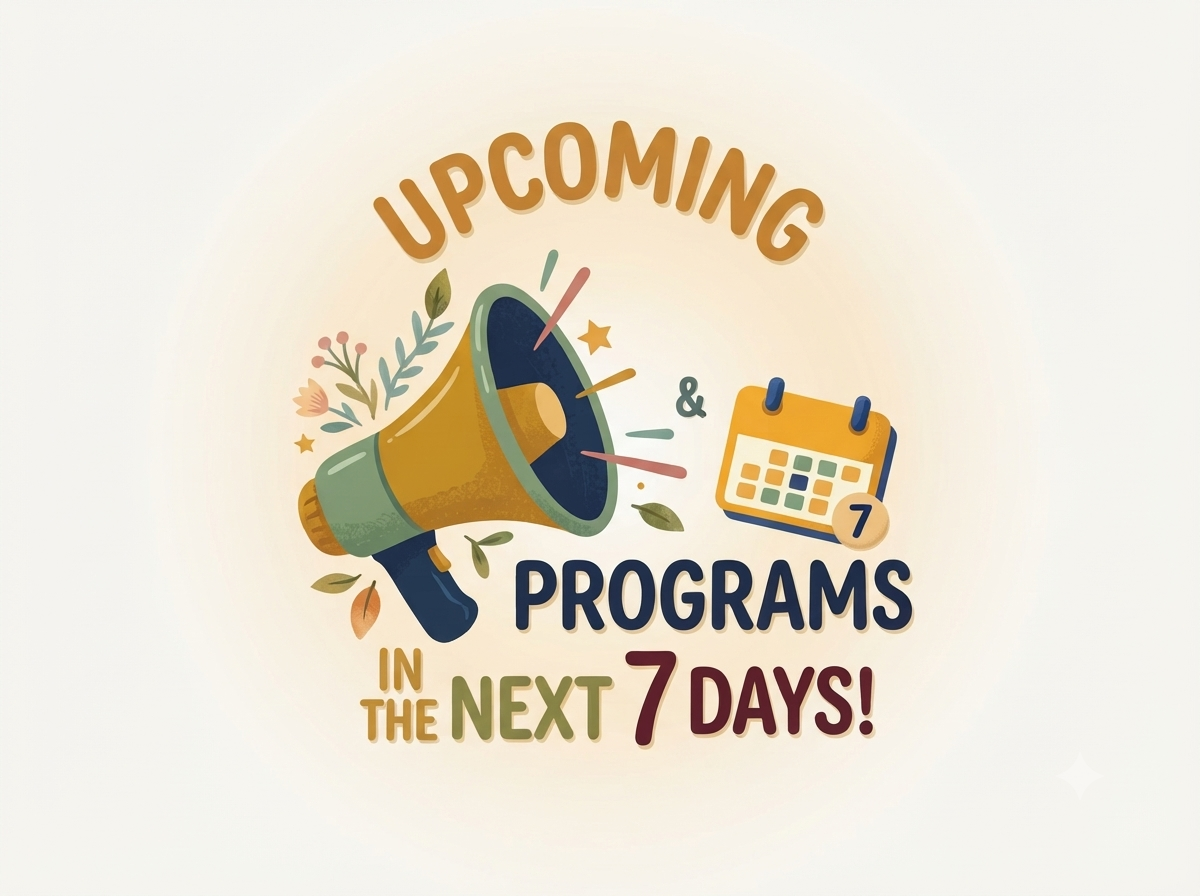
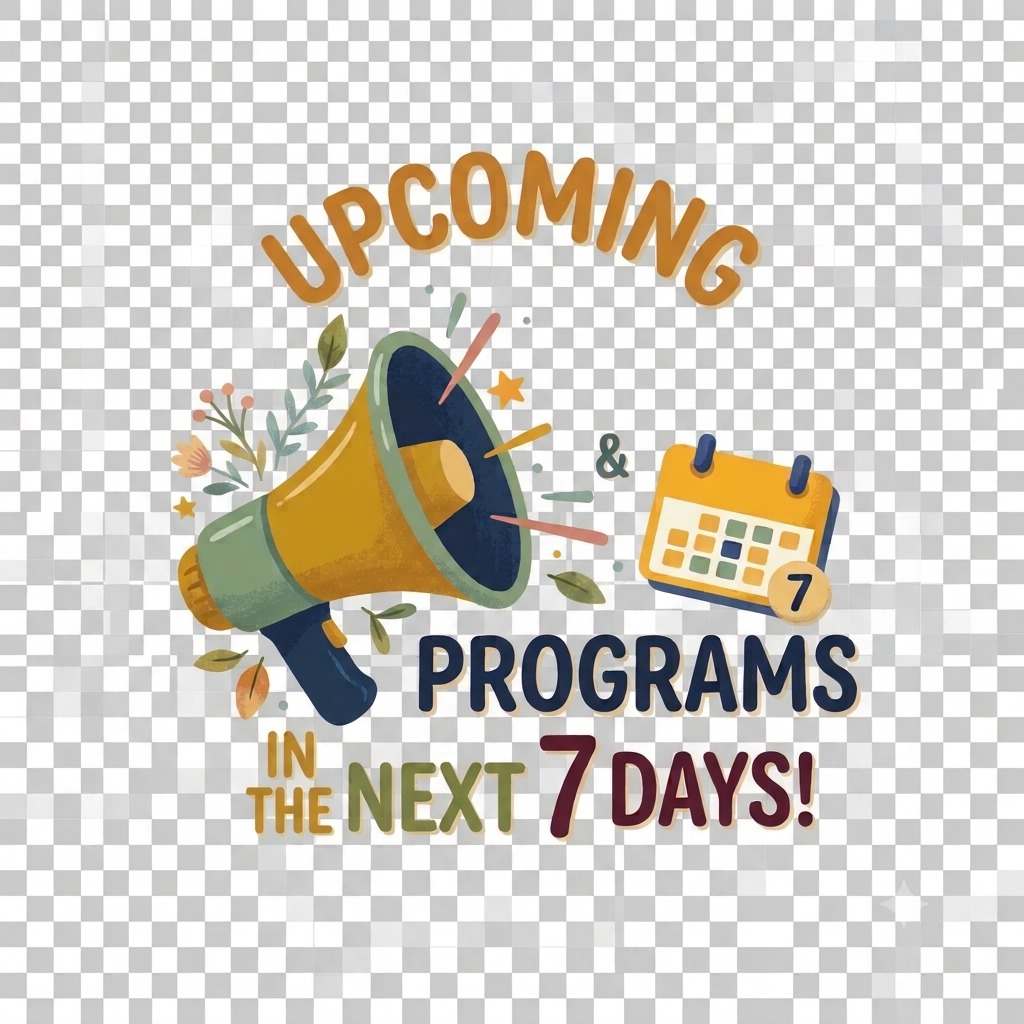
slideshow styles added

diff --git a/components/public/FirstSevenDaysSlideshow.tsx b/components/public/FirstSevenDaysSlideshow.tsx
@@ -243,8 +243,8 @@ export default function FirstSevenDaysSlideshow({
     setActiveIndex((prev) => (prev === slides.length - 1 ? 0 : prev + 1));
   };
 
-  const uniformPanelClass =
-    "relative flex h-64 w-full items-center justify-center overflow-hidden rounded-2xl border border-[#1F2A63]/10 bg-[#FAF8F4]/90 shadow-2xs backdrop-blur-[2px] sm:h-72";
+  const uniformHeightClass = "h-64 w-full sm:h-72";
+  const imageCardClass = `relative flex ${uniformHeightClass} items-center justify-center overflow-hidden rounded-2xl border border-[#1F2A63]/10 bg-[#FAF8F4]/90 shadow-2xs backdrop-blur-[2px]`;
 
   const slideContent = (
     <div
@@ -252,14 +252,16 @@ export default function FirstSevenDaysSlideshow({
         current.image_url ? "md:grid-cols-3" : "md:grid-cols-2"
       }`}
     >
-      {/* Block 1: Animated 7-Days Banner Image */}
-      <div className={`${uniformPanelClass} p-4`}>
+      {/* Block 1: Animated 7-Days Banner Image (No Background Box) */}
+      <div
+        className={`relative flex ${uniformHeightClass} items-center justify-center overflow-hidden p-4`}
+      >
         <div
           aria-hidden="true"
           className="seven-days-glow absolute h-36 w-36 rounded-full bg-[#F28C18]/25 blur-2xl"
         />
         <img
-          src="/7days-bg.jpeg"
+          src="/7days-bg.png"
           alt="Upcoming programs in the next 7 days"
           className="seven-days-float relative z-10 h-full w-full rounded-xl object-contain transition-transform duration-300 group-hover:scale-105 group-hover:-rotate-1"
         />
@@ -267,7 +269,7 @@ export default function FirstSevenDaysSlideshow({
 
       {/* Block 2: Program Image (when present) */}
       {current.image_url && (
-        <div className={uniformPanelClass}>
+        <div className={imageCardClass}>
           <img
             src={current.image_url}
             alt={current.name}
@@ -276,9 +278,9 @@ export default function FirstSevenDaysSlideshow({
         </div>
       )}
 
-      {/* Block 3: Dynamic Slide Details */}
+      {/* Block 3: Dynamic Slide Details (No Background Box) */}
       <div
-        className={`${uniformPanelClass} flex-col items-start justify-center p-5 text-left sm:p-6`}
+        className={`flex ${uniformHeightClass} flex-col items-start justify-center px-4 py-3 text-left sm:px-6`}
       >
         {current.centerName && (
           <h3 className="text-xl font-medium tracking-normal text-[#1F2A63] sm:text-2xl">
@@ -317,7 +319,7 @@ export default function FirstSevenDaysSlideshow({
     </div>
   );
 
- return (
+  return (
     <div
       onMouseEnter={() => setIsPaused(true)}
       onMouseLeave={() => setIsPaused(false)}
@@ -329,7 +331,7 @@ export default function FirstSevenDaysSlideshow({
         alt=""
         aria-hidden="true"
         onError={() => console.error("Failed to load /bg.jpeg")}
-        className="pointer-events-none absolute inset-0 z-0 h-full w-full object-fill opacity-50"
+        className="pointer-events-none absolute inset-0 z-0 h-full w-full object-fill opacity-100"
       />
 
       <div className="relative z-10">
